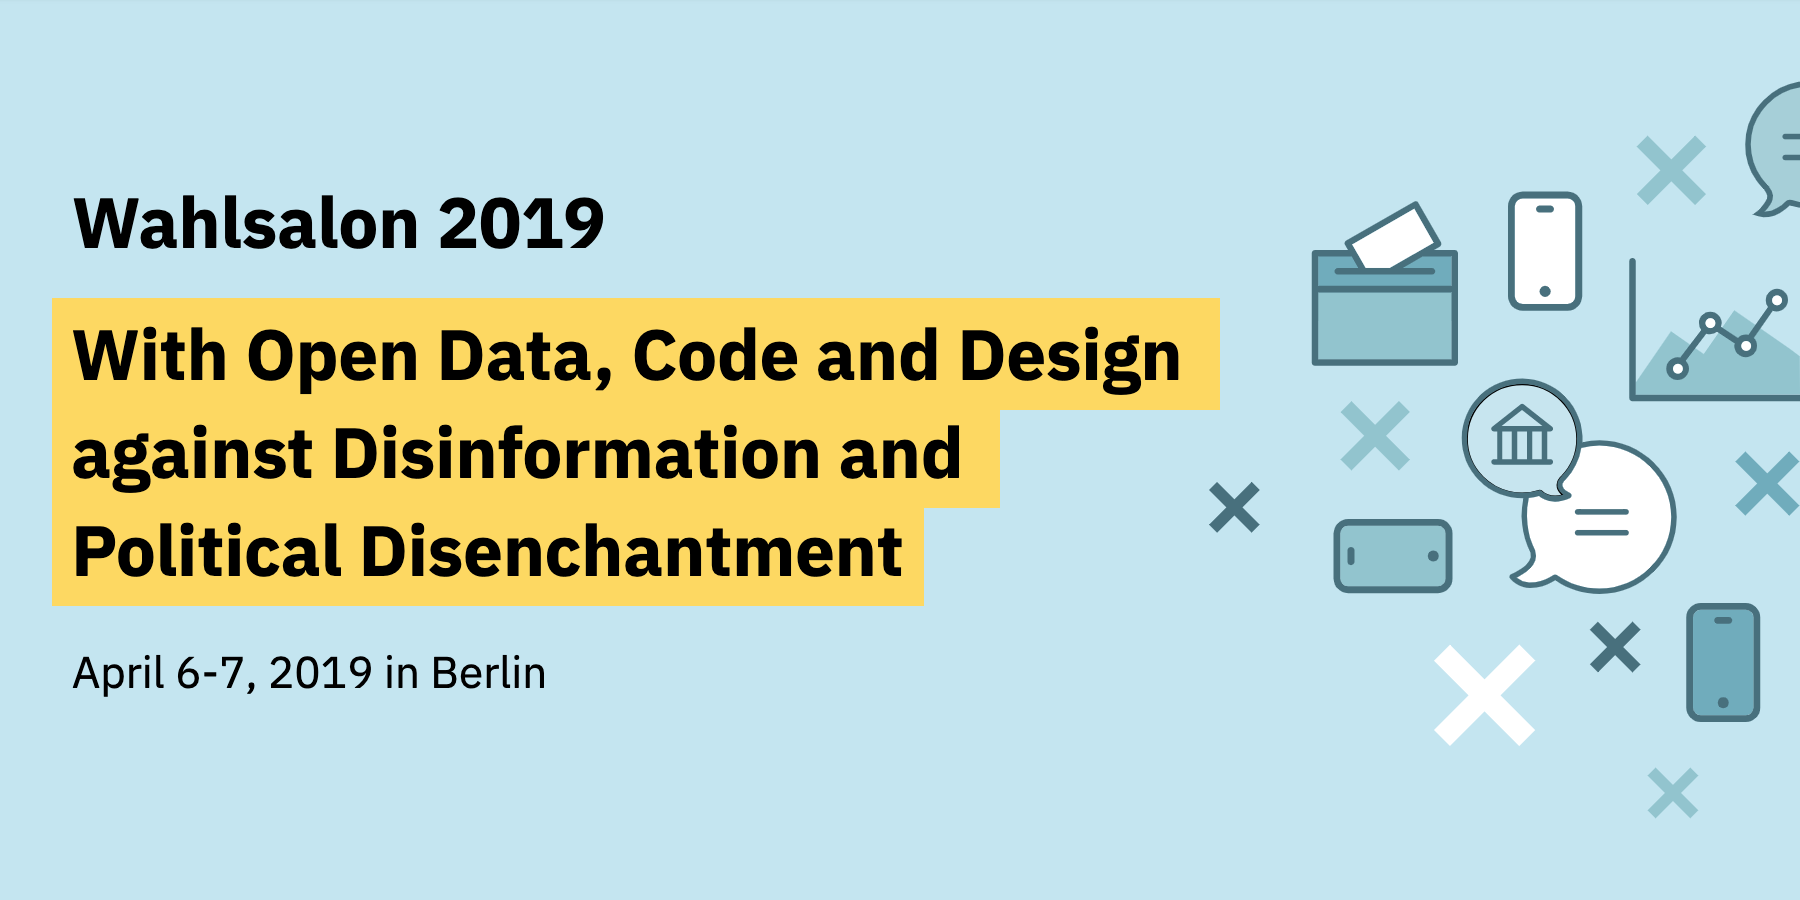
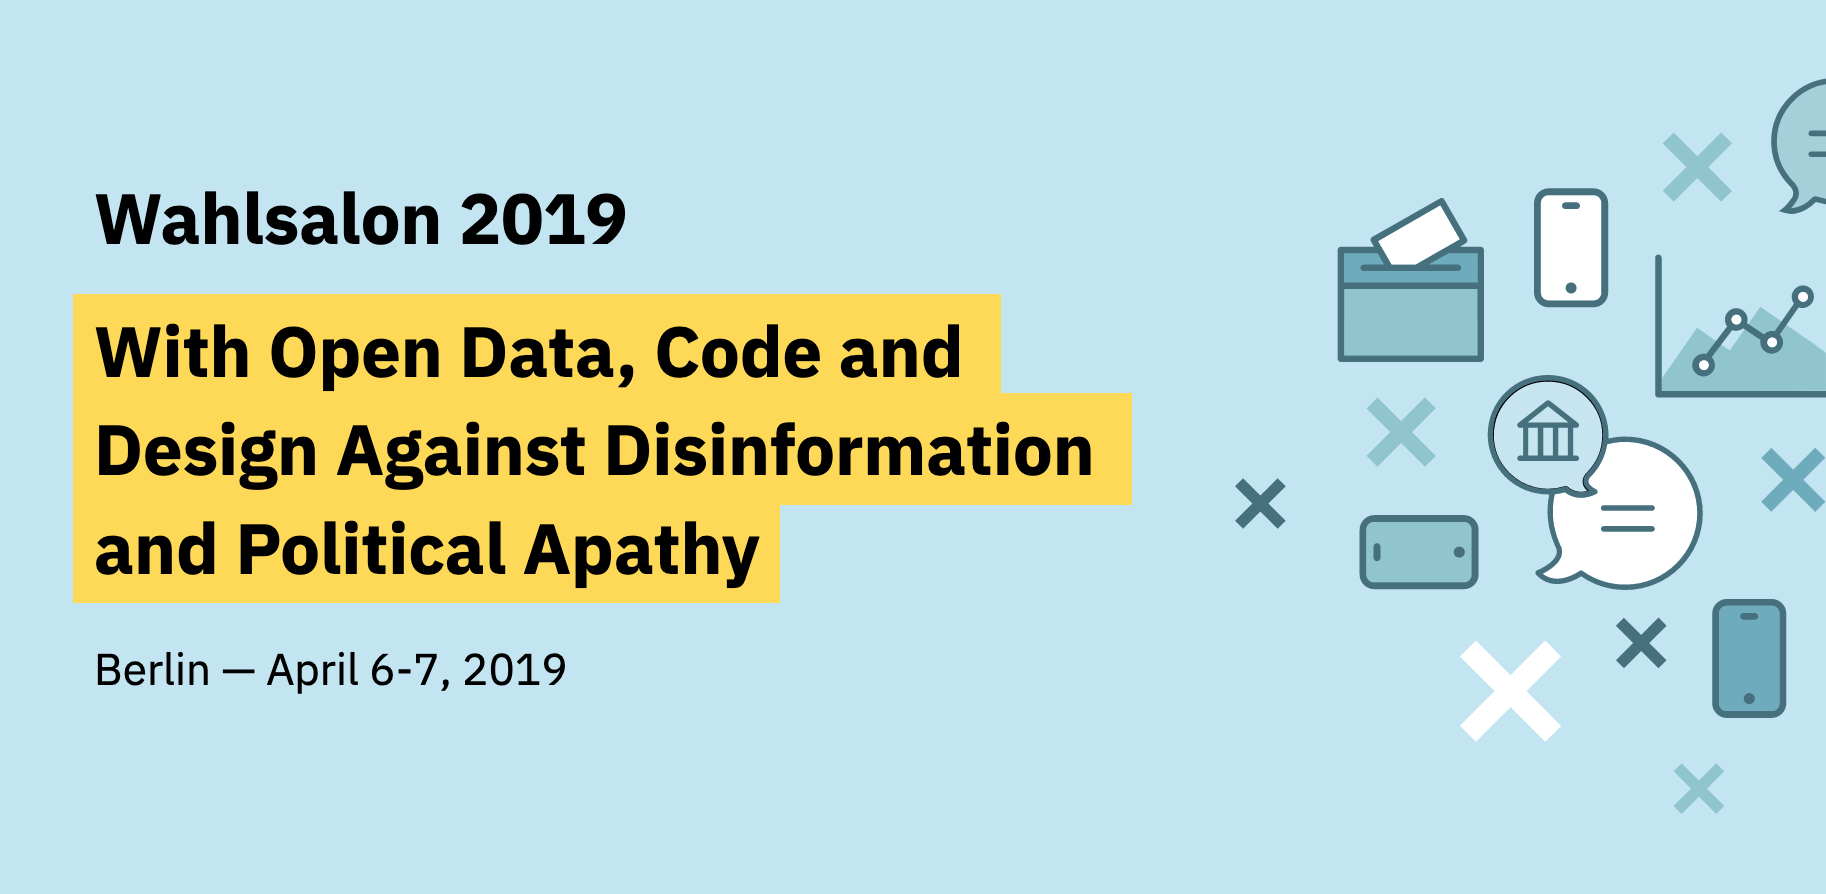
Events: Minor content and layout updates

diff --git a/src/scss/components/_event.scss b/src/scss/components/_event.scss
@@ -9,10 +9,7 @@
 .event__main {
   padding-right: 2rem;
   hyphens: auto;
-
-  p:first-child {
-    font-size: $font-size-title;
-  }
+  font-size: $font-size-title;
 }
 
 .event__meta {

diff --git a/src/pages/en/wahlsalon.md b/src/pages/en/wahlsalon.md
@@ -8,8 +8,8 @@ langSwitch:
 description: We are calling all designers, programmers, journalists, statisticians, creators, and policy nerds! Join the Wahlsalon election hackathon and use your skills and ideas to make democracy more accessible for everyone.
 metaImage: '/images/wahlsalon_social_de.png'
 tagline: |-
-  With Open Data, Code and Design 
-  Against Disinformation 
+  With Open Data, Code and 
+  Design Against Disinformation 
   and Political Apathy
 longDate: April 6-7, 2019
 meta: Berlin — April 6-7, 2019
@@ -73,12 +73,12 @@ schedule:
         name: Wrapping up
 ---
 
-2019 is packed with elections. In addition to the upcoming European election, there will be a range of other elections across Europe, including state and municipal elections in many parts of Germany. While everyone gets ready for the elections, we see a rise in populism, disinformation, and political apathy. Against this background, free access to data on the constituencies and knowledge about the background and functioning of the elections is essential for democracy.
+2019 is packed with elections. In addition to the upcoming European election, there will be a range of other elections across Europe, including state and municipal elections in many parts of Germany. With the elections approaching, we see a rise in populism, disinformation, but also in political apathy. Against this background, free access to data on the constituencies and knowledge about the background and functioning of the elections is essential for democracy.
 
 The Wahlsalon [vaːlˈsalɔn] is a two-day event that brings the civic tech community together with people from journalism, politics and civil society organisations. Together we work with open data and develop digital tools to better inform voters and motivate them to participate. We are calling all designers, programmers, journalists, statisticians, creators, and policy nerds! Join us and use your skills and ideas to make democracy more accessible for everyone.
 
-<a href="https://www.meetup.com/de-DE/OK-Lab-Berlin/events/259818253/" class="mdc-button mdc-button--outlined mdc-ripple-upgraded mdc-ripple-upgraded--foreground-activation">Join us!</a>
+Wahlsalon 2019 is a project by [Code for Germany](https://codefor.de) and [Datenguide](https://datengui.de).
+
+<a href="https://www.meetup.com/de-DE/OK-Lab-Berlin/events/259818253/" class="mdc-button mdc-button--outlined mdc-ripple-upgraded mdc-ripple-upgraded--foreground-activation">Sign-up now!</a>
 
 **Participation is free.** Please sing-up via [meetup.com](https://www.meetup.com/de-DE/OK-Lab-Berlin/events/259818253/) or let us know via [email](wahlsalon@datengui.de) so we thet know how many people to expect.
-
-Wahlsalon 2019 is a joint project by [Code for Germany](https://codefor.de) and [Datenguide](https://datengui.de).
